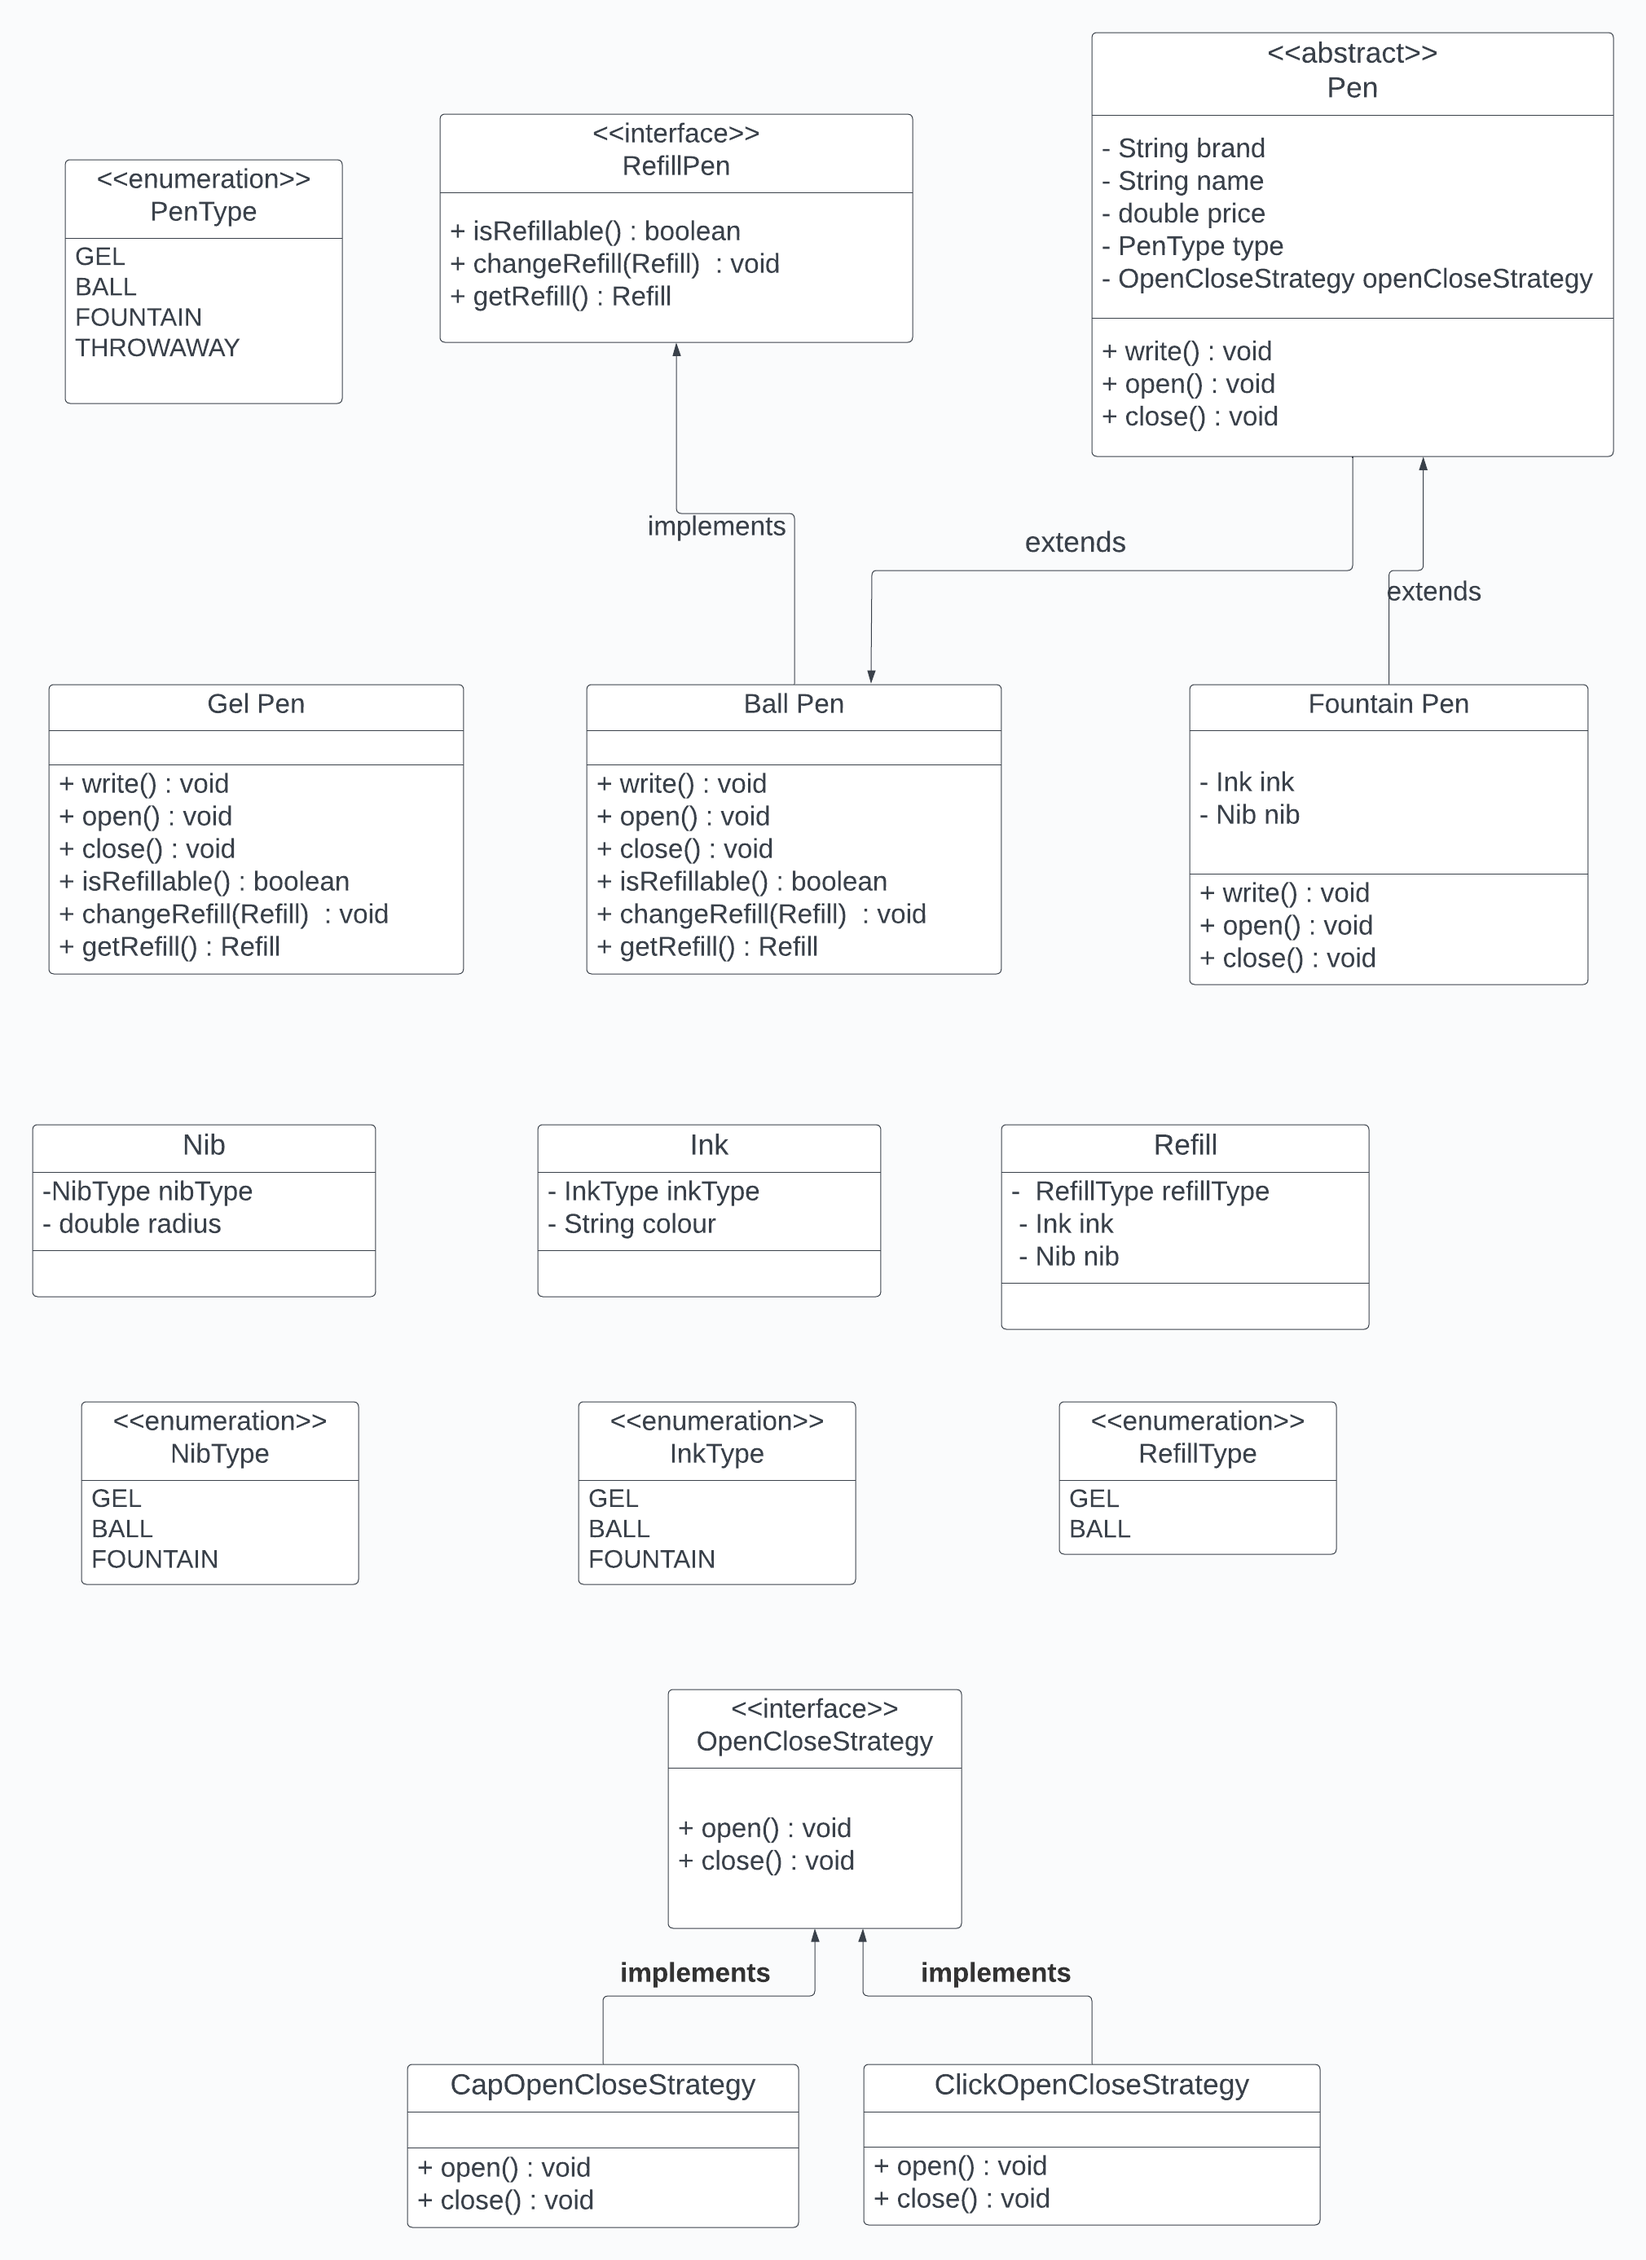
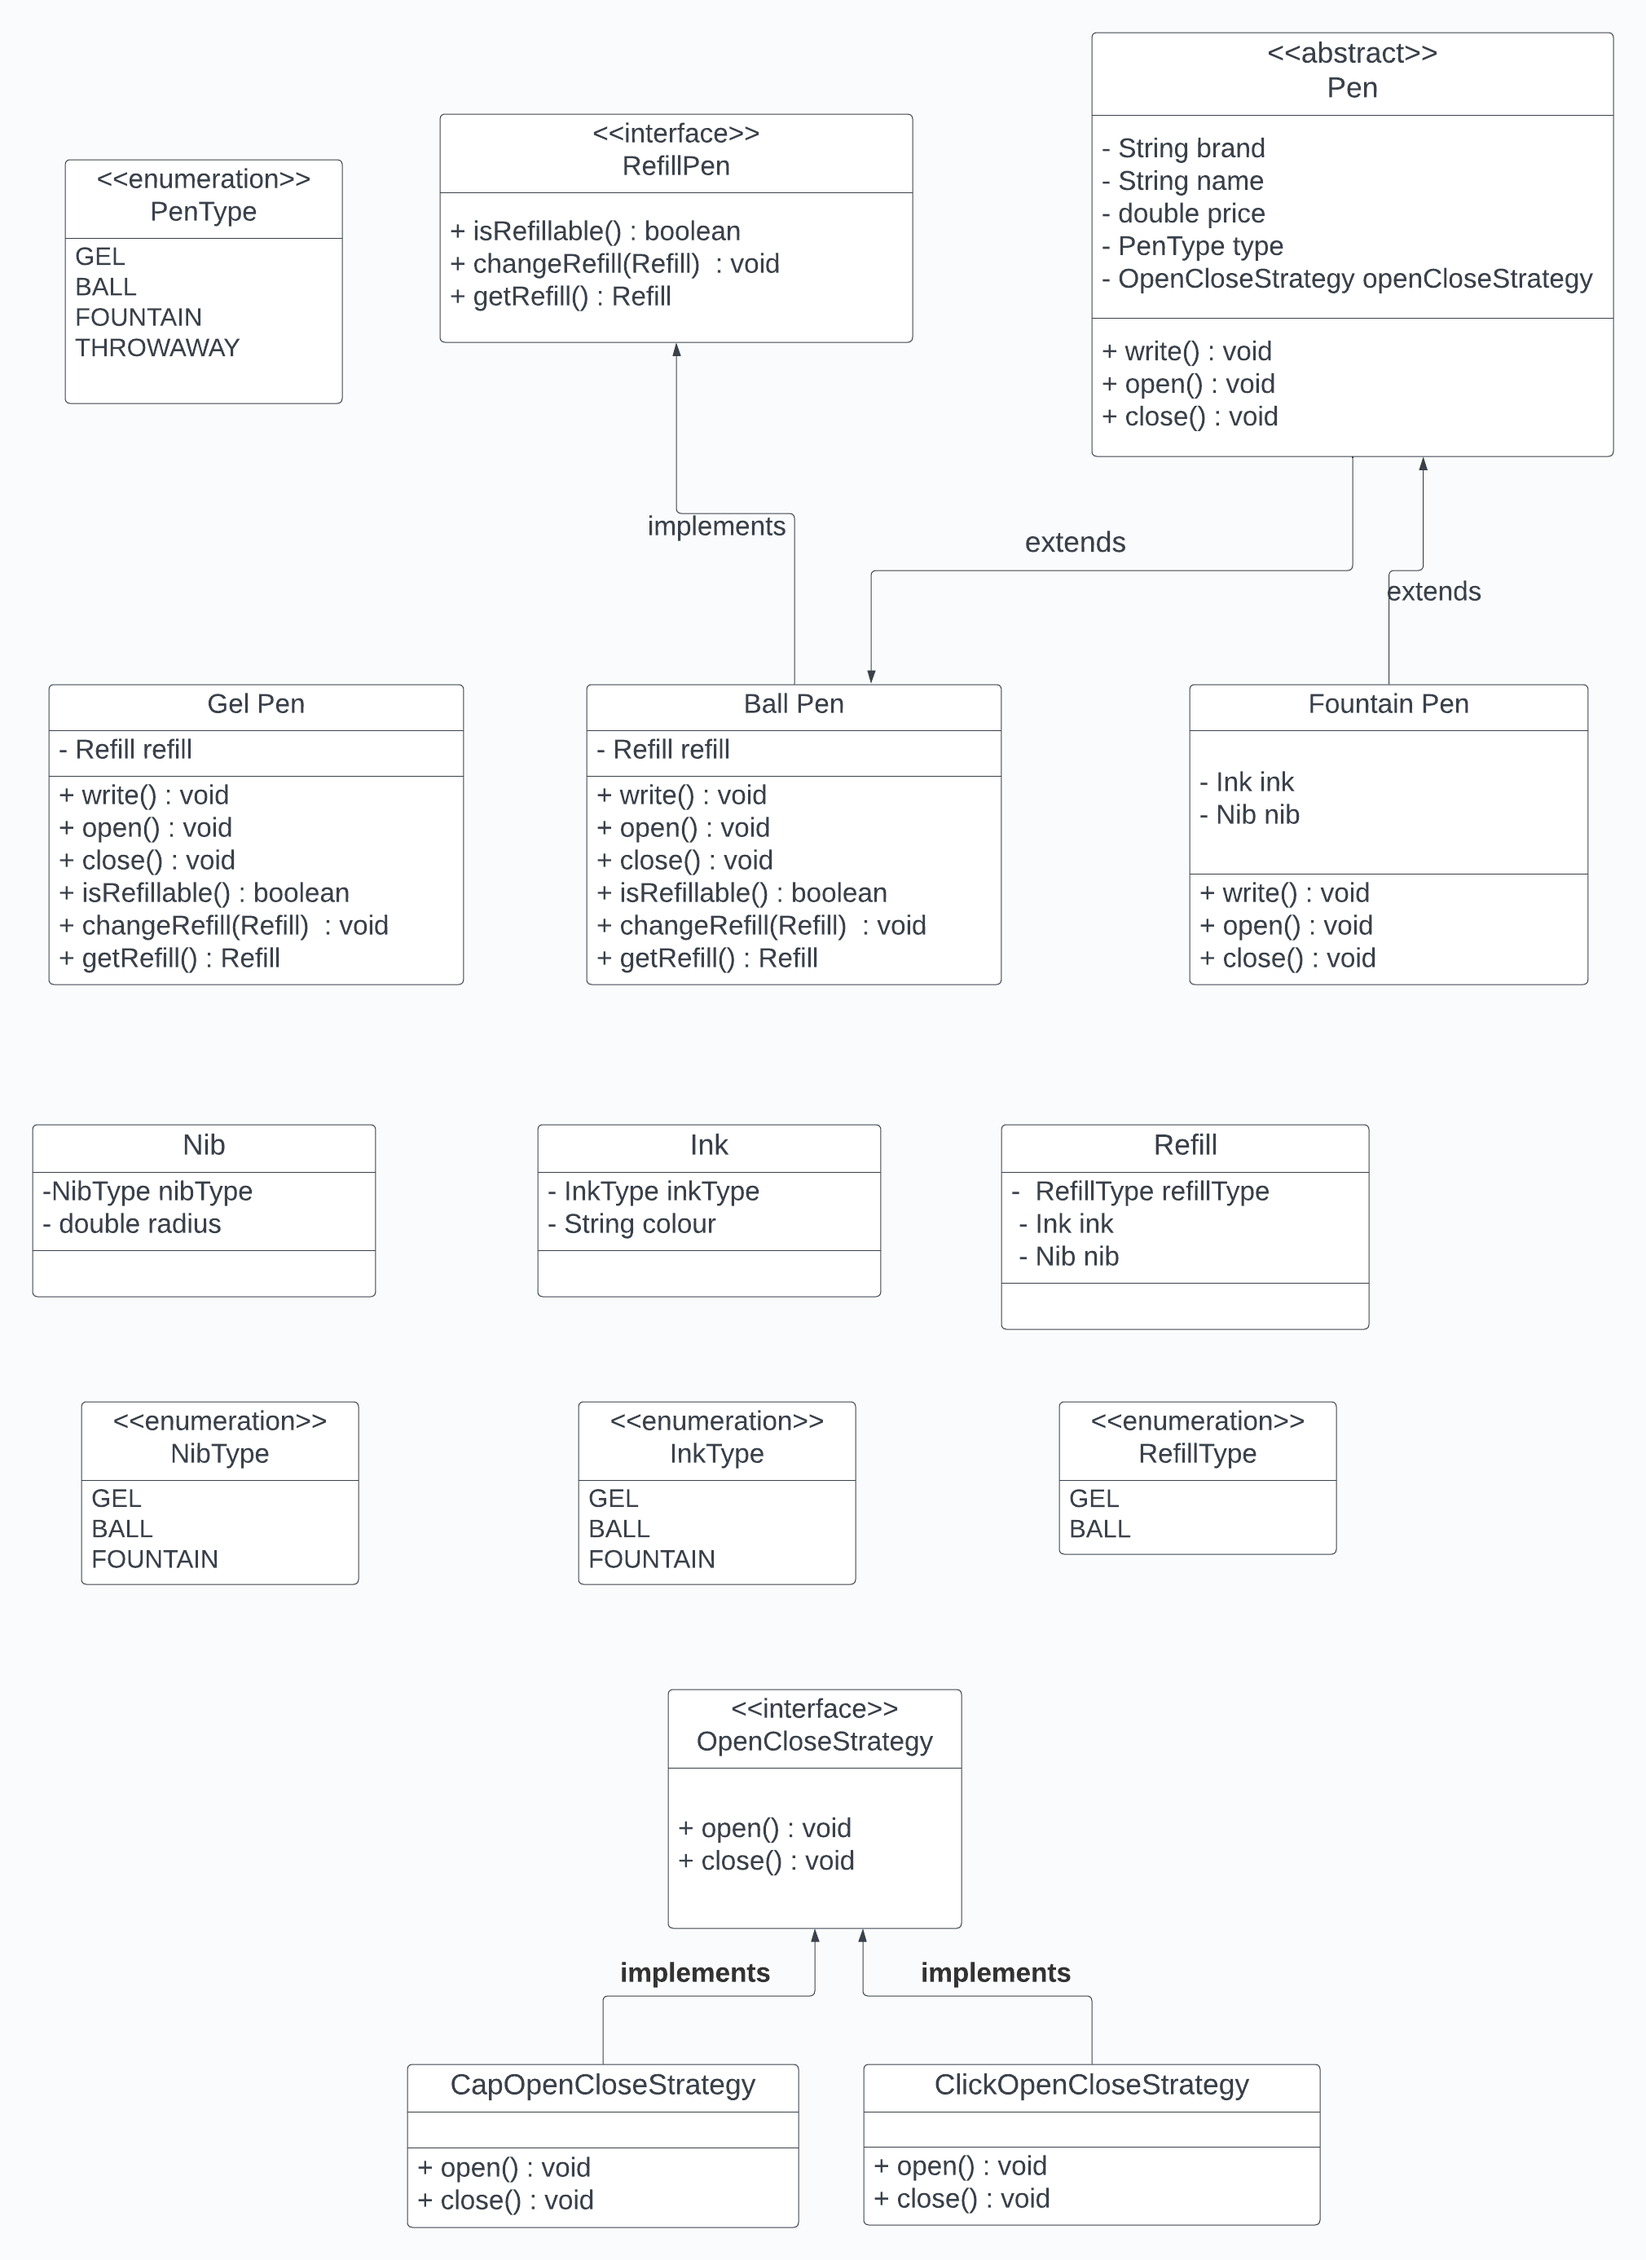
Added code

Changed region(s): [[0.0312, 0.3101, 0.2183, 0.4342], [0.3743, 0.3101, 0.5614, 0.4342], [0.2183, 0.4032, 0.2495, 0.4342]]

diff --git a/src/main/java/org/agarwal/Entity/BallPen.java b/src/main/java/org/agarwal/Entity/BallPen.java
@@ -1,0 +1,37 @@
+package org.agarwal.Entity;
+
+import org.agarwal.Strategy.CapOpenCloasedStrategy;
+import org.agarwal.Strategy.OpenCloseStrategy;
+import org.agarwal.constants.PenType;
+
+public class BallPen extends Pen implements RefillPen{
+
+    Refill refill;
+
+
+    public BallPen(String brand, String name, double price, PenType type,Refill refill) {
+        super(brand, name, price, PenType.BALL, new CapOpenCloasedStrategy());
+        this.refill = refill;
+    }
+
+    @Override
+    public boolean isRefillable() {
+        return true;
+    }
+
+    @Override
+    public void changeRefill(Refill refill) {
+        if(isRefillable()){
+            this.refill = refill;
+        }
+    }
+
+    @Override
+    public Refill getRefill() {
+        return refill;
+    }
+
+    public void setRefill(Refill refill) {
+        this.refill = refill;
+    }
+}

diff --git a/src/main/java/org/agarwal/Entity/Pen.java b/src/main/java/org/agarwal/Entity/Pen.java
@@ -1,0 +1,37 @@
+package org.agarwal.Entity;
+
+import org.agarwal.Strategy.OpenCloseStrategy;
+import org.agarwal.constants.PenType;
+
+public abstract class Pen {
+    String brand;
+    String name;
+    double price;
+    PenType type;
+    OpenCloseStrategy openCloseStrategy;
+
+    public Pen(){
+
+    }
+
+    public Pen(String brand, String name, double price, PenType type, OpenCloseStrategy openCloseStrategy) {
+        this.brand = brand;
+        this.name = name;
+        this.price = price;
+        this.type = type;
+        this.openCloseStrategy = openCloseStrategy;
+    }
+
+    public void write(){
+        System.out.println("Pen writes");
+    }
+
+    public void open(){
+        openCloseStrategy.open();
+    }
+
+    public void close(){
+        openCloseStrategy.close();
+    }
+
+}

diff --git a/src/main/java/org/agarwal/Entity/FountainPen.java b/src/main/java/org/agarwal/Entity/FountainPen.java
@@ -1,0 +1,16 @@
+package org.agarwal.Entity;
+
+import org.agarwal.Strategy.ClickOpenCloseStrategy;
+import org.agarwal.Strategy.OpenCloseStrategy;
+import org.agarwal.constants.PenType;
+
+public class FountainPen extends Pen{
+    Ink ink;
+    Nib nib;
+
+    public FountainPen(String brand, String name, double price, Ink ink, Nib nib) {
+        super(brand, name, price, PenType.FOUNTAIN, new ClickOpenCloseStrategy());
+        this.ink = ink;
+        this.nib = nib;
+    }
+}

diff --git a/src/main/java/org/agarwal/Strategy/ClickOpenCloseStrategy.java b/src/main/java/org/agarwal/Strategy/ClickOpenCloseStrategy.java
@@ -1,0 +1,13 @@
+package org.agarwal.Strategy;
+
+public class ClickOpenCloseStrategy implements  OpenCloseStrategy{
+    @Override
+    public void open() {
+        System.out.println("Clock open");
+    }
+
+    @Override
+    public void close() {
+        System.out.println("Click close");
+    }
+}

diff --git a/src/main/java/org/agarwal/Strategy/CapOpenCloasedStrategy.java b/src/main/java/org/agarwal/Strategy/CapOpenCloasedStrategy.java
@@ -1,0 +1,13 @@
+package org.agarwal.Strategy;
+
+public class CapOpenCloasedStrategy implements OpenCloseStrategy{
+    @Override
+    public void open() {
+        System.out.println("Cap open");
+    }
+
+    @Override
+    public void close() {
+        System.out.println("Cap close");
+    }
+}

diff --git a/src/main/java/org/agarwal/Entity/RefillPen.java b/src/main/java/org/agarwal/Entity/RefillPen.java
@@ -1,0 +1,8 @@
+package org.agarwal.Entity;
+
+public interface RefillPen {
+
+    boolean isRefillable();
+    void changeRefill(Refill refill);
+    Refill getRefill();
+}

diff --git a/src/main/java/org/agarwal/Entity/Refill.java b/src/main/java/org/agarwal/Entity/Refill.java
@@ -1,0 +1,9 @@
+package org.agarwal.Entity;
+
+import org.agarwal.constants.RefillType;
+
+public class Refill {
+    RefillType refillType;
+    Ink ink;
+    Nib nib;
+}

diff --git a/src/main/java/org/agarwal/Main.java b/src/main/java/org/agarwal/Main.java
@@ -1,0 +1,7 @@
+package org.agarwal;
+
+public class Main {
+    public static void main(String[] args) {
+        System.out.println("Hello world!");
+    }
+}

diff --git a/src/main/java/org/agarwal/Entity/Ink.java b/src/main/java/org/agarwal/Entity/Ink.java
@@ -1,0 +1,8 @@
+package org.agarwal.Entity;
+
+import org.agarwal.constants.InkType;
+
+public class Ink {
+    InkType inkType;
+    String colour;
+}

diff --git a/src/main/java/org/agarwal/Entity/Nib.java b/src/main/java/org/agarwal/Entity/Nib.java
@@ -1,0 +1,8 @@
+package org.agarwal.Entity;
+
+import org.agarwal.constants.NibType;
+
+public class Nib {
+    NibType nibType;
+    double radius;
+}

diff --git a/src/main/java/org/agarwal/Strategy/OpenCloseStrategy.java b/src/main/java/org/agarwal/Strategy/OpenCloseStrategy.java
@@ -1,0 +1,6 @@
+package org.agarwal.Strategy;
+
+public interface OpenCloseStrategy {
+    void open();
+    void close();
+}

diff --git a/src/main/java/org/agarwal/constants/PenType.java b/src/main/java/org/agarwal/constants/PenType.java
@@ -1,0 +1,8 @@
+package org.agarwal.constants;
+
+public enum PenType {
+    GEL,
+    BALL,
+    FOUNTAIN,
+    THROWAWAY
+}
